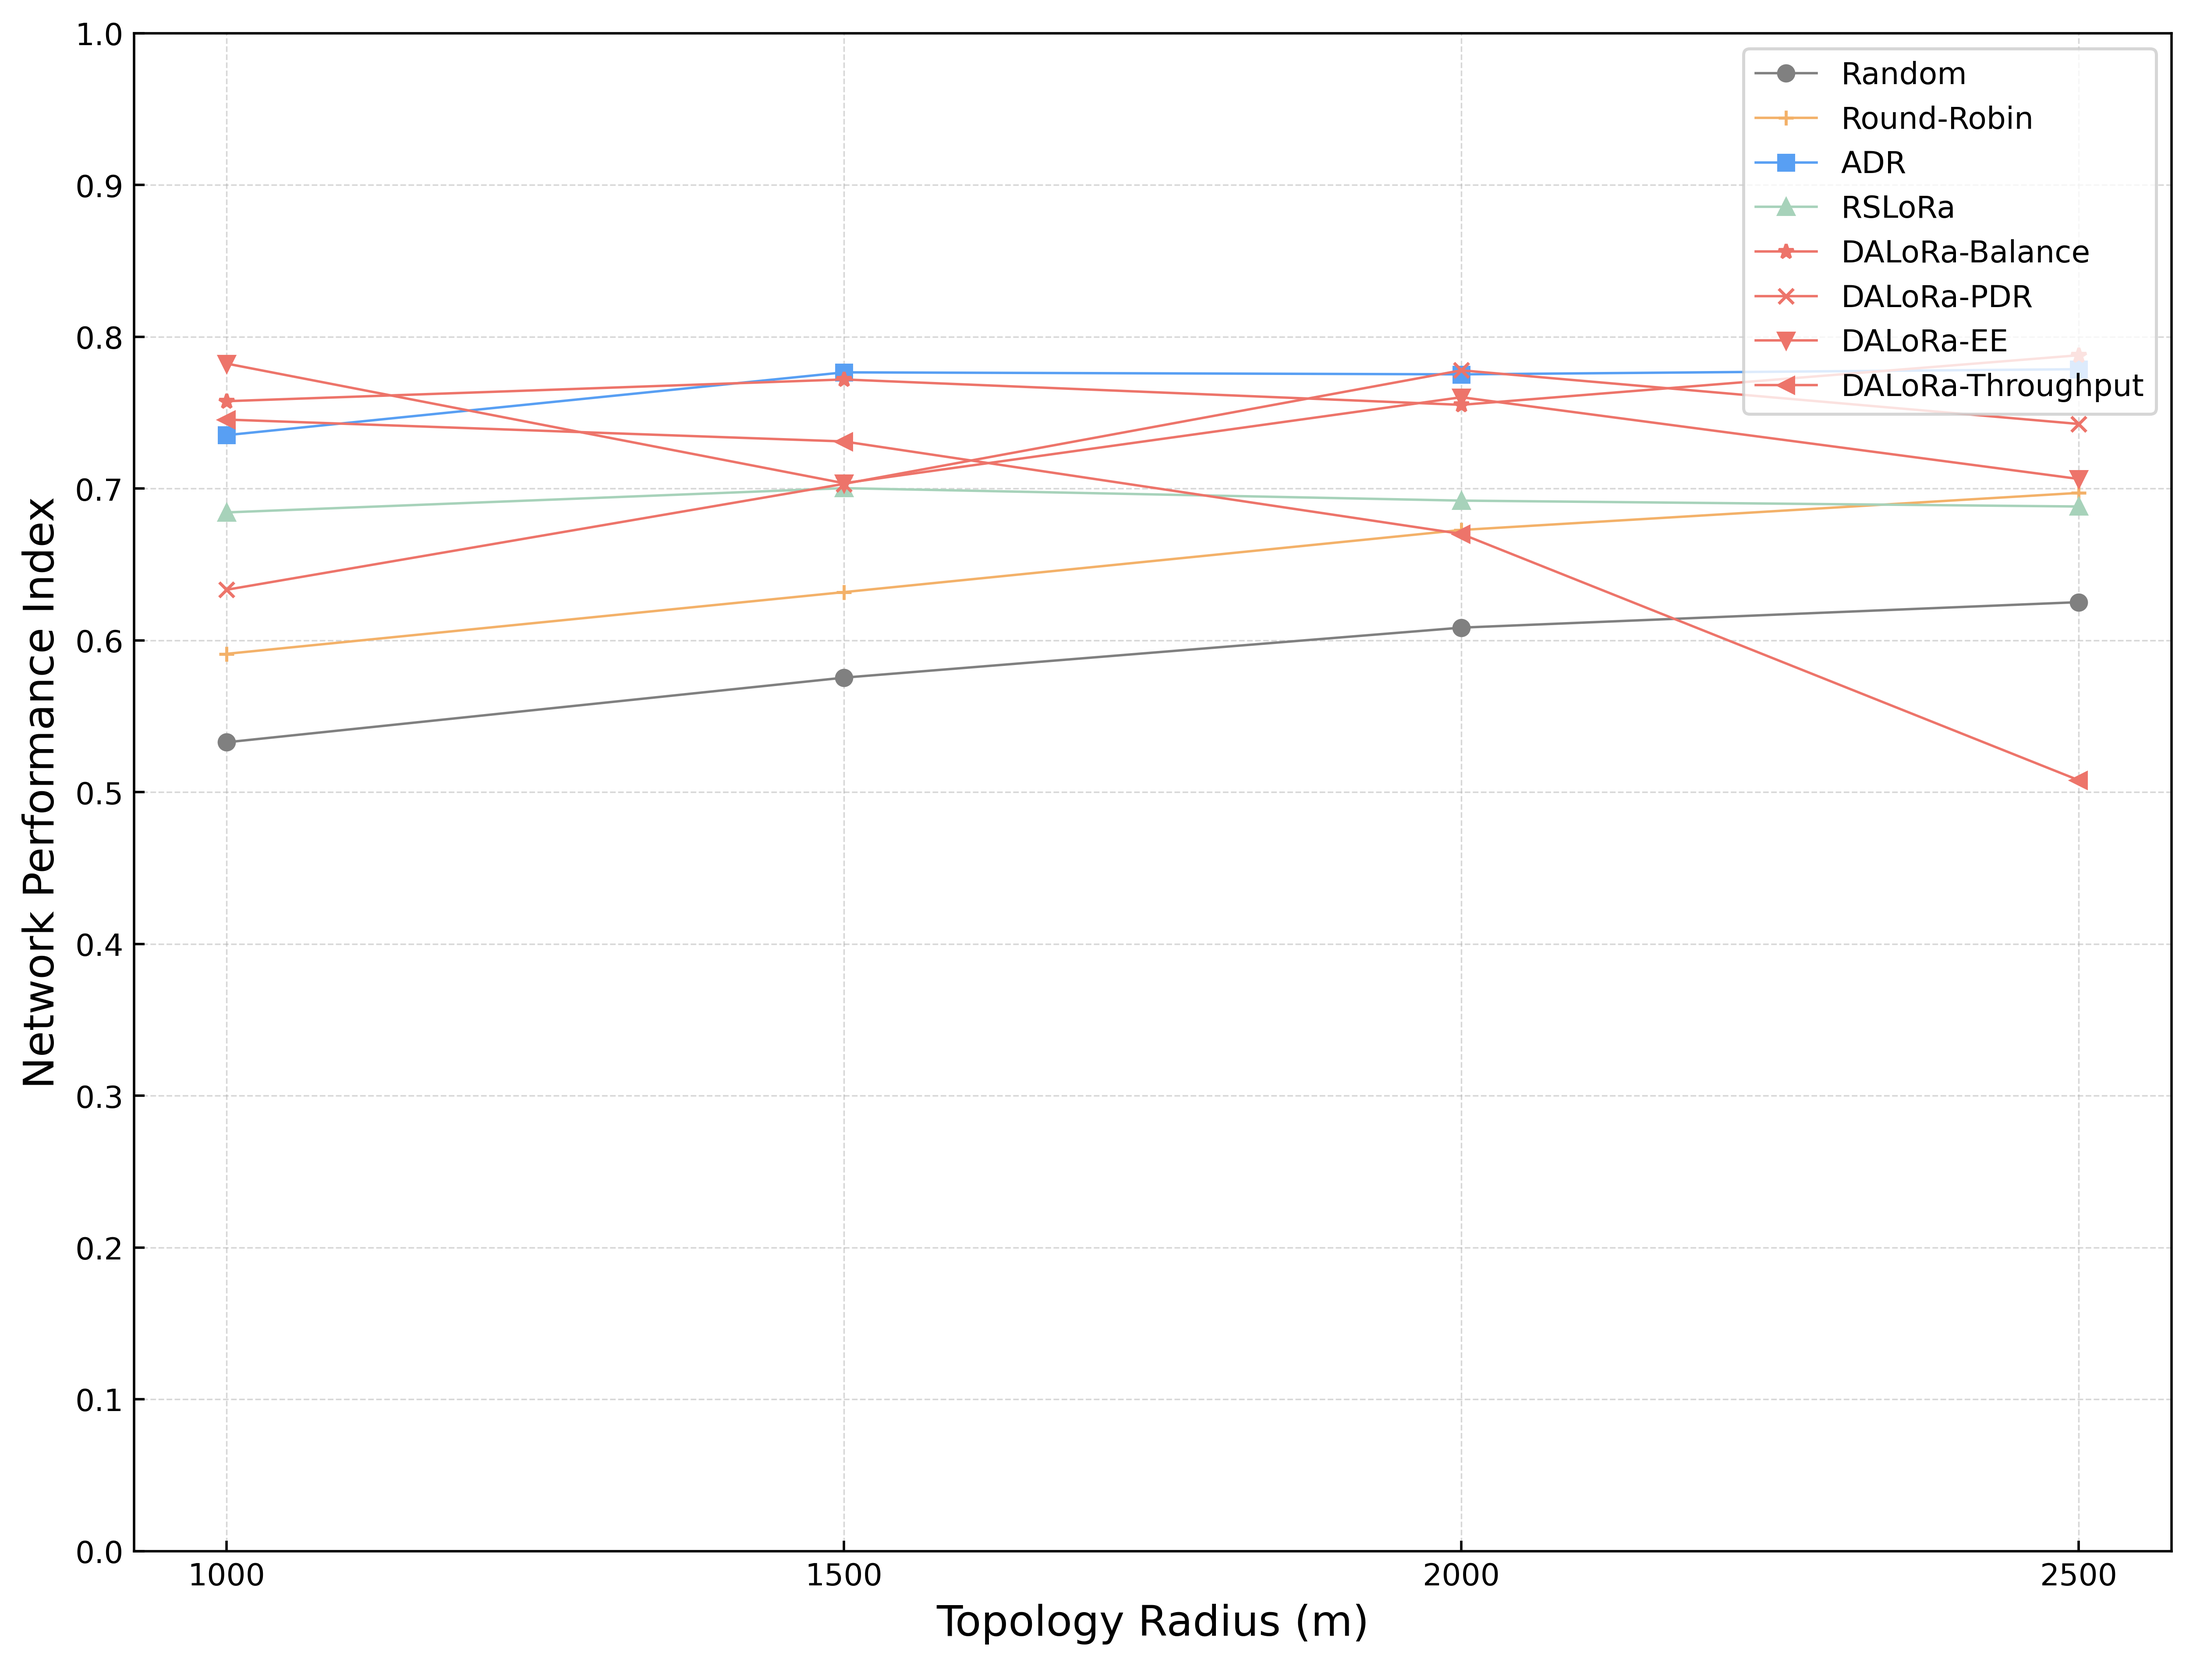
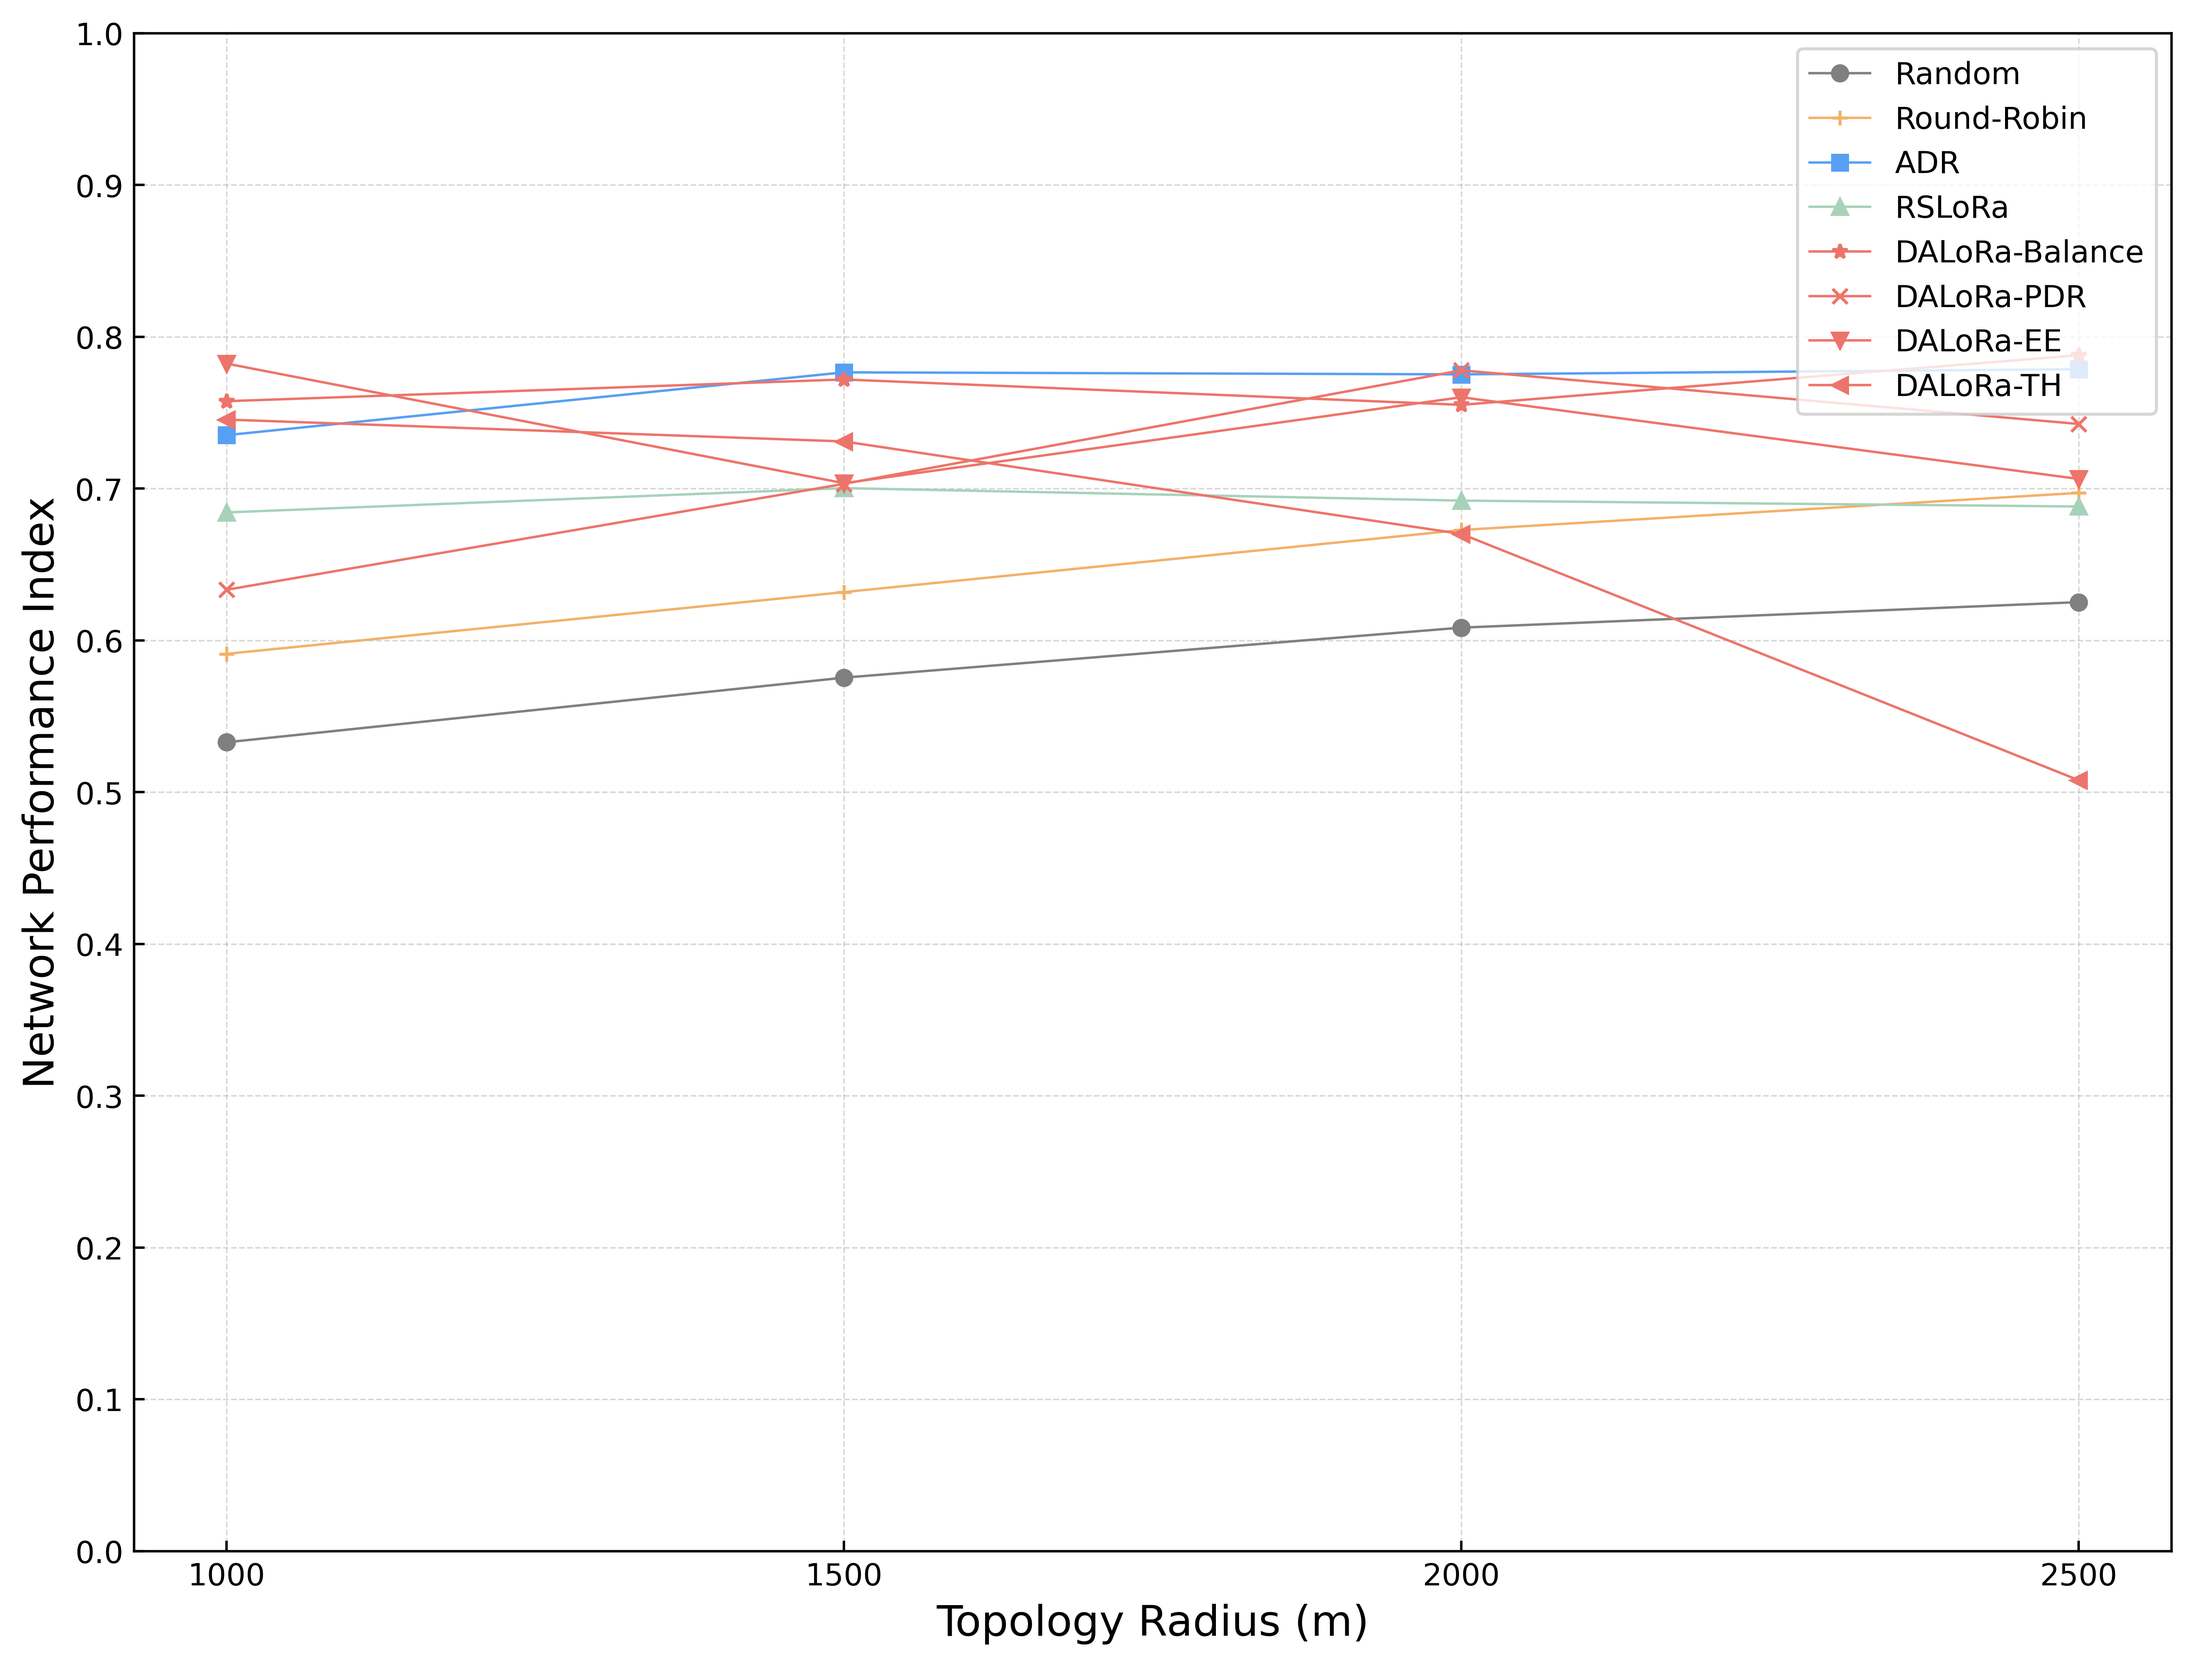
add experimental results

Changed region(s): [[0.7792, 0.031, 0.9662, 0.2482]]

diff --git a/Figure.py b/Figure.py
@@ -83,7 +83,7 @@ radius_node_50_pdr_data = {
     'DALoRa-Balance': [90.91, 89.83, 88.30, 85.81],
     'DALoRa-PDR': [95.30, 92.14, 89.46, 86.70],
     'DALoRa-EE': [84.14, 80.89, 78.73, 79.07],
-    'DALoRa-Throughput': [89.91, 83.68,  83.68, 77.65]
+    'DALoRa-TH': [89.91, 83.68,  83.68, 77.65]
     
 }
 
@@ -95,7 +95,7 @@ radius_node_50_NetEE_data = {
     'DALoRa-Balance': [84.216, 39.6, 22.328, 21.048],
     'DALoRa-PDR': [25.673, 23.469, 21.318, 17.253],
     'DALoRa-EE': [125.187, 50.790, 37.688, 23.146],
-    'DALoRa-Throughput': [36.688, 26.077, 17.466, 8.863]
+    'DALoRa-TH': [36.688, 26.077, 17.466, 8.863]
     
 }
 
@@ -107,7 +107,7 @@ radius_node_50_Throughput_data = {
     'DALoRa-Balance': [573.615, 551.314, 490.888, 461.912],
     'DALoRa-PDR': [617.031, 552.995, 535.476, 432.262],
     'DALoRa-EE': [412.128, 357.050, 381.230, 347.664],
-    'DALoRa-Throughput': [887.723, 652.130, 428.261, 220.658]
+    'DALoRa-TH': [887.723, 652.130, 428.261, 220.658]
 
 }
 
